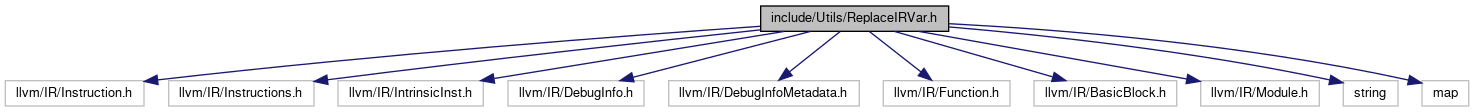
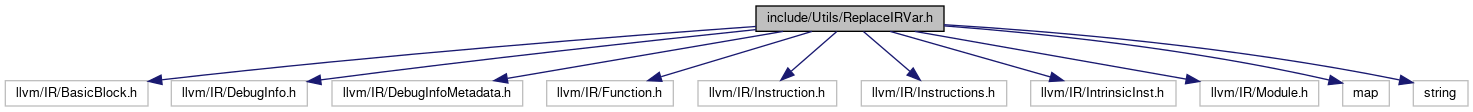
deploy: 809c17121af95b4b57fc65bd9bce2257514c7052

diff --git a/ReplaceIRVar_8h_source.html b/ReplaceIRVar_8h_source.html
@@ -73,37 +73,38 @@ $(function() {
 <a href="ReplaceIRVar_8h.html">Go to the documentation of this file.</a><div class="fragment"><div class="line"><a name="l00001"></a><span class="lineno">    1</span>&#160;<span class="preprocessor">#ifndef REPLACEIRVAR_H</span></div>
 <div class="line"><a name="l00002"></a><span class="lineno">    2</span>&#160;<span class="preprocessor">#define REPLACEIRVAR_H</span></div>
 <div class="line"><a name="l00003"></a><span class="lineno">    3</span>&#160; </div>
-<div class="line"><a name="l00004"></a><span class="lineno">    4</span>&#160;<span class="preprocessor">#include &quot;llvm/IR/Instruction.h&quot;</span></div>
-<div class="line"><a name="l00005"></a><span class="lineno">    5</span>&#160;<span class="preprocessor">#include &quot;llvm/IR/Instructions.h&quot;</span></div>
-<div class="line"><a name="l00006"></a><span class="lineno">    6</span>&#160;<span class="preprocessor">#include &quot;llvm/IR/IntrinsicInst.h&quot;</span></div>
-<div class="line"><a name="l00007"></a><span class="lineno">    7</span>&#160;<span class="preprocessor">#include &quot;llvm/IR/DebugInfo.h&quot;</span></div>
-<div class="line"><a name="l00008"></a><span class="lineno">    8</span>&#160;<span class="preprocessor">#include &quot;llvm/IR/DebugInfoMetadata.h&quot;</span></div>
-<div class="line"><a name="l00009"></a><span class="lineno">    9</span>&#160;<span class="preprocessor">#include &quot;llvm/IR/Function.h&quot;</span></div>
-<div class="line"><a name="l00010"></a><span class="lineno">   10</span>&#160;<span class="preprocessor">#include &quot;llvm/IR/BasicBlock.h&quot;</span></div>
+<div class="line"><a name="l00004"></a><span class="lineno">    4</span>&#160;<span class="preprocessor">#include &quot;llvm/IR/BasicBlock.h&quot;</span></div>
+<div class="line"><a name="l00005"></a><span class="lineno">    5</span>&#160;<span class="preprocessor">#include &quot;llvm/IR/DebugInfo.h&quot;</span></div>
+<div class="line"><a name="l00006"></a><span class="lineno">    6</span>&#160;<span class="preprocessor">#include &quot;llvm/IR/DebugInfoMetadata.h&quot;</span></div>
+<div class="line"><a name="l00007"></a><span class="lineno">    7</span>&#160;<span class="preprocessor">#include &quot;llvm/IR/Function.h&quot;</span></div>
+<div class="line"><a name="l00008"></a><span class="lineno">    8</span>&#160;<span class="preprocessor">#include &quot;llvm/IR/Instruction.h&quot;</span></div>
+<div class="line"><a name="l00009"></a><span class="lineno">    9</span>&#160;<span class="preprocessor">#include &quot;llvm/IR/Instructions.h&quot;</span></div>
+<div class="line"><a name="l00010"></a><span class="lineno">   10</span>&#160;<span class="preprocessor">#include &quot;llvm/IR/IntrinsicInst.h&quot;</span></div>
 <div class="line"><a name="l00011"></a><span class="lineno">   11</span>&#160;<span class="preprocessor">#include &quot;llvm/IR/Module.h&quot;</span></div>
-<div class="line"><a name="l00012"></a><span class="lineno">   12</span>&#160;<span class="preprocessor">#include &lt;string&gt;</span></div>
-<div class="line"><a name="l00013"></a><span class="lineno">   13</span>&#160;<span class="preprocessor">#include &lt;map&gt;</span></div>
+<div class="line"><a name="l00012"></a><span class="lineno">   12</span>&#160;<span class="preprocessor">#include &lt;map&gt;</span></div>
+<div class="line"><a name="l00013"></a><span class="lineno">   13</span>&#160;<span class="preprocessor">#include &lt;string&gt;</span></div>
 <div class="line"><a name="l00014"></a><span class="lineno">   14</span>&#160; </div>
-<div class="line"><a name="l00015"></a><span class="lineno"><a class="line" href="classReplaceIRVar.html">   15</a></span>&#160;<span class="keyword">class </span><a class="code" href="classReplaceIRVar.html">ReplaceIRVar</a>{</div>
+<div class="line"><a name="l00015"></a><span class="lineno"><a class="line" href="classReplaceIRVar.html">   15</a></span>&#160;<span class="keyword">class </span><a class="code" href="classReplaceIRVar.html">ReplaceIRVar</a> {</div>
 <div class="line"><a name="l00016"></a><span class="lineno">   16</span>&#160;<span class="keyword">private</span>:</div>
-<div class="line"><a name="l00018"></a><span class="lineno">   18</span>&#160;    std::string NewName;</div>
-<div class="line"><a name="l00020"></a><span class="lineno">   20</span>&#160;    std::map&lt;std::string,std::string&gt; HashMap;</div>
-<div class="line"><a name="l00021"></a><span class="lineno">   21</span>&#160;    <span class="keywordtype">void</span> init(llvm::Function&amp; F);</div>
-<div class="line"><a name="l00022"></a><span class="lineno">   22</span>&#160;    <span class="keywordtype">void</span> init(llvm::BasicBlock&amp; BB);</div>
-<div class="line"><a name="l00023"></a><span class="lineno">   23</span>&#160;    <span class="keywordtype">void</span> init(llvm::Module&amp; M);</div>
-<div class="line"><a name="l00024"></a><span class="lineno">   24</span>&#160;    <span class="keywordtype">void</span> format(std::string First,std::string Second);</div>
-<div class="line"><a name="l00025"></a><span class="lineno">   25</span>&#160;<span class="keyword">public</span>:</div>
-<div class="line"><a name="l00026"></a><span class="lineno">   26</span>&#160;    <a class="code" href="classReplaceIRVar.html#a9c68da708bbda4be6b5cb55ff05b54fe">ReplaceIRVar</a>();</div>
-<div class="line"><a name="l00027"></a><span class="lineno">   27</span>&#160;    <span class="keywordtype">void</span> <a class="code" href="classReplaceIRVar.html#a404cf892ebdcabe03bb016dc7367aa65">runOnFunction</a>(llvm::Function&amp; F);</div>
-<div class="line"><a name="l00028"></a><span class="lineno">   28</span>&#160;    <span class="keywordtype">void</span> <a class="code" href="classReplaceIRVar.html#a41d9ba6225a4efa62c8b123d08676573">runOnBasicBlock</a>(llvm::BasicBlock&amp; BB);</div>
-<div class="line"><a name="l00029"></a><span class="lineno">   29</span>&#160;    <span class="keywordtype">void</span> <a class="code" href="classReplaceIRVar.html#ac6dc1c852a768e2d25b39570a29cc46e">runOnModule</a>(llvm::Module&amp; M);</div>
-<div class="line"><a name="l00030"></a><span class="lineno">   30</span>&#160;};</div>
-<div class="line"><a name="l00031"></a><span class="lineno">   31</span>&#160;<span class="preprocessor">#endif</span></div>
+<div class="line"><a name="l00018"></a><span class="lineno">   18</span>&#160;  std::string NewName;</div>
+<div class="line"><a name="l00021"></a><span class="lineno">   21</span>&#160;  std::map&lt;std::string, std::string&gt; HashMap;</div>
+<div class="line"><a name="l00022"></a><span class="lineno">   22</span>&#160;  <span class="keywordtype">void</span> init(llvm::Function &amp;F);</div>
+<div class="line"><a name="l00023"></a><span class="lineno">   23</span>&#160;  <span class="keywordtype">void</span> init(llvm::BasicBlock &amp;BB);</div>
+<div class="line"><a name="l00024"></a><span class="lineno">   24</span>&#160;  <span class="keywordtype">void</span> init(llvm::Module &amp;M);</div>
+<div class="line"><a name="l00025"></a><span class="lineno">   25</span>&#160;  <span class="keywordtype">void</span> format(std::string First, std::string Second);</div>
+<div class="line"><a name="l00026"></a><span class="lineno">   26</span>&#160; </div>
+<div class="line"><a name="l00027"></a><span class="lineno">   27</span>&#160;<span class="keyword">public</span>:</div>
+<div class="line"><a name="l00028"></a><span class="lineno">   28</span>&#160;  <a class="code" href="classReplaceIRVar.html#a9c68da708bbda4be6b5cb55ff05b54fe">ReplaceIRVar</a>();</div>
+<div class="line"><a name="l00029"></a><span class="lineno">   29</span>&#160;  <span class="keywordtype">void</span> <a class="code" href="classReplaceIRVar.html#a404cf892ebdcabe03bb016dc7367aa65">runOnFunction</a>(llvm::Function &amp;F);</div>
+<div class="line"><a name="l00030"></a><span class="lineno">   30</span>&#160;  <span class="keywordtype">void</span> <a class="code" href="classReplaceIRVar.html#a41d9ba6225a4efa62c8b123d08676573">runOnBasicBlock</a>(llvm::BasicBlock &amp;BB);</div>
+<div class="line"><a name="l00031"></a><span class="lineno">   31</span>&#160;  <span class="keywordtype">void</span> <a class="code" href="classReplaceIRVar.html#ac6dc1c852a768e2d25b39570a29cc46e">runOnModule</a>(llvm::Module &amp;M);</div>
+<div class="line"><a name="l00032"></a><span class="lineno">   32</span>&#160;};</div>
+<div class="line"><a name="l00033"></a><span class="lineno">   33</span>&#160;<span class="preprocessor">#endif</span></div>
 <div class="ttc" id="aclassReplaceIRVar_html"><div class="ttname"><a href="classReplaceIRVar.html">ReplaceIRVar</a></div><div class="ttdef"><b>Definition:</b> ReplaceIRVar.h:15</div></div>
-<div class="ttc" id="aclassReplaceIRVar_html_a404cf892ebdcabe03bb016dc7367aa65"><div class="ttname"><a href="classReplaceIRVar.html#a404cf892ebdcabe03bb016dc7367aa65">ReplaceIRVar::runOnFunction</a></div><div class="ttdeci">void runOnFunction(llvm::Function &amp;F)</div><div class="ttdoc">replace IR variable to Actual Variable for the Function passed as parameter</div><div class="ttdef"><b>Definition:</b> ReplaceIRVar.cpp:43</div></div>
-<div class="ttc" id="aclassReplaceIRVar_html_a41d9ba6225a4efa62c8b123d08676573"><div class="ttname"><a href="classReplaceIRVar.html#a41d9ba6225a4efa62c8b123d08676573">ReplaceIRVar::runOnBasicBlock</a></div><div class="ttdeci">void runOnBasicBlock(llvm::BasicBlock &amp;BB)</div><div class="ttdoc">replace IR variable to Actual Variable for the Basic Block passed as parameter</div><div class="ttdef"><b>Definition:</b> ReplaceIRVar.cpp:51</div></div>
+<div class="ttc" id="aclassReplaceIRVar_html_a404cf892ebdcabe03bb016dc7367aa65"><div class="ttname"><a href="classReplaceIRVar.html#a404cf892ebdcabe03bb016dc7367aa65">ReplaceIRVar::runOnFunction</a></div><div class="ttdeci">void runOnFunction(llvm::Function &amp;F)</div><div class="ttdoc">replace IR variable to Actual Variable for the Function passed as parameter</div><div class="ttdef"><b>Definition:</b> ReplaceIRVar.cpp:45</div></div>
+<div class="ttc" id="aclassReplaceIRVar_html_a41d9ba6225a4efa62c8b123d08676573"><div class="ttname"><a href="classReplaceIRVar.html#a41d9ba6225a4efa62c8b123d08676573">ReplaceIRVar::runOnBasicBlock</a></div><div class="ttdeci">void runOnBasicBlock(llvm::BasicBlock &amp;BB)</div><div class="ttdef"><b>Definition:</b> ReplaceIRVar.cpp:54</div></div>
 <div class="ttc" id="aclassReplaceIRVar_html_a9c68da708bbda4be6b5cb55ff05b54fe"><div class="ttname"><a href="classReplaceIRVar.html#a9c68da708bbda4be6b5cb55ff05b54fe">ReplaceIRVar::ReplaceIRVar</a></div><div class="ttdeci">ReplaceIRVar()</div><div class="ttdoc">Constructor of ReplaceIRVar class.</div><div class="ttdef"><b>Definition:</b> ReplaceIRVar.cpp:4</div></div>
-<div class="ttc" id="aclassReplaceIRVar_html_ac6dc1c852a768e2d25b39570a29cc46e"><div class="ttname"><a href="classReplaceIRVar.html#ac6dc1c852a768e2d25b39570a29cc46e">ReplaceIRVar::runOnModule</a></div><div class="ttdeci">void runOnModule(llvm::Module &amp;M)</div><div class="ttdoc">replace IR variable to Actual Variable for the Module passed as parameter</div><div class="ttdef"><b>Definition:</b> ReplaceIRVar.cpp:71</div></div>
+<div class="ttc" id="aclassReplaceIRVar_html_ac6dc1c852a768e2d25b39570a29cc46e"><div class="ttname"><a href="classReplaceIRVar.html#ac6dc1c852a768e2d25b39570a29cc46e">ReplaceIRVar::runOnModule</a></div><div class="ttdeci">void runOnModule(llvm::Module &amp;M)</div><div class="ttdoc">replace IR variable to Actual Variable for the Module passed as parameter</div><div class="ttdef"><b>Definition:</b> ReplaceIRVar.cpp:78</div></div>
 </div><!-- fragment --></div><!-- contents -->
 <!-- start footer part -->
 <hr class="footer"/><address class="footer"><small>

diff --git a/ReplaceIRVar_8h.html b/ReplaceIRVar_8h.html
@@ -72,32 +72,32 @@ $(function() {
 <div class="title">ReplaceIRVar.h File Reference</div>  </div>
 </div><!--header-->
 <div class="contents">
-<div class="textblock"><code>#include &quot;llvm/IR/Instruction.h&quot;</code><br />
-<code>#include &quot;llvm/IR/Instructions.h&quot;</code><br />
-<code>#include &quot;llvm/IR/IntrinsicInst.h&quot;</code><br />
+<div class="textblock"><code>#include &quot;llvm/IR/BasicBlock.h&quot;</code><br />
 <code>#include &quot;llvm/IR/DebugInfo.h&quot;</code><br />
 <code>#include &quot;llvm/IR/DebugInfoMetadata.h&quot;</code><br />
 <code>#include &quot;llvm/IR/Function.h&quot;</code><br />
-<code>#include &quot;llvm/IR/BasicBlock.h&quot;</code><br />
+<code>#include &quot;llvm/IR/Instruction.h&quot;</code><br />
+<code>#include &quot;llvm/IR/Instructions.h&quot;</code><br />
+<code>#include &quot;llvm/IR/IntrinsicInst.h&quot;</code><br />
 <code>#include &quot;llvm/IR/Module.h&quot;</code><br />
-<code>#include &lt;string&gt;</code><br />
 <code>#include &lt;map&gt;</code><br />
+<code>#include &lt;string&gt;</code><br />
 </div><div class="textblock"><div class="dynheader">
 Include dependency graph for ReplaceIRVar.h:</div>
 <div class="dyncontent">
 <div class="center"><img src="ReplaceIRVar_8h__incl.png" border="0" usemap="#ainclude_2Utils_2ReplaceIRVar_8h" alt=""/></div>
 <map name="ainclude_2Utils_2ReplaceIRVar_8h" id="ainclude_2Utils_2ReplaceIRVar_8h">
-<area shape="rect" title=" " alt="" coords="761,5,949,32"/>
-<area shape="rect" title=" " alt="" coords="5,80,144,107"/>
-<area shape="rect" title=" " alt="" coords="169,80,314,107"/>
-<area shape="rect" title=" " alt="" coords="338,80,483,107"/>
-<area shape="rect" title=" " alt="" coords="508,80,644,107"/>
-<area shape="rect" title=" " alt="" coords="669,80,859,107"/>
-<area shape="rect" title=" " alt="" coords="883,80,1010,107"/>
-<area shape="rect" title=" " alt="" coords="1034,80,1177,107"/>
-<area shape="rect" title=" " alt="" coords="1201,80,1319,107"/>
-<area shape="rect" title=" " alt="" coords="1343,80,1398,107"/>
-<area shape="rect" title=" " alt="" coords="1422,80,1469,107"/>
+<area shape="rect" title=" " alt="" coords="756,5,944,32"/>
+<area shape="rect" title=" " alt="" coords="5,80,148,107"/>
+<area shape="rect" title=" " alt="" coords="171,80,307,107"/>
+<area shape="rect" title=" " alt="" coords="332,80,523,107"/>
+<area shape="rect" title=" " alt="" coords="547,80,673,107"/>
+<area shape="rect" title=" " alt="" coords="698,80,837,107"/>
+<area shape="rect" title=" " alt="" coords="861,80,1007,107"/>
+<area shape="rect" title=" " alt="" coords="1031,80,1176,107"/>
+<area shape="rect" title=" " alt="" coords="1200,80,1319,107"/>
+<area shape="rect" title=" " alt="" coords="1343,80,1389,107"/>
+<area shape="rect" title=" " alt="" coords="1413,80,1468,107"/>
 </map>
 </div>
 </div><div class="textblock"><div class="dynheader">

diff --git a/CFGUtils_8cpp.html b/CFGUtils_8cpp.html
@@ -87,21 +87,21 @@ Include dependency graph for CFGUtils.cpp:</div>
 <div class="dyncontent">
 <div class="center"><img src="CFGUtils_8cpp__incl.png" border="0" usemap="#alib_2Utils_2CFGUtils_8cpp" alt=""/></div>
 <map name="alib_2Utils_2CFGUtils_8cpp" id="alib_2Utils_2CFGUtils_8cpp">
-<area shape="rect" title=" " alt="" coords="402,5,550,32"/>
+<area shape="rect" title=" " alt="" coords="401,5,549,32"/>
 <area shape="rect" href="CFGUtils_8h.html" title=" " alt="" coords="220,80,337,107"/>
 <area shape="rect" title=" " alt="" coords="5,155,64,181"/>
 <area shape="rect" title=" " alt="" coords="89,155,215,181"/>
 <area shape="rect" title=" " alt="" coords="240,155,379,181"/>
-<area shape="rect" href="ReplaceIRVar_8h.html" title=" " alt="" coords="614,80,757,107"/>
-<area shape="rect" title=" " alt="" coords="403,155,549,181"/>
-<area shape="rect" title=" " alt="" coords="1331,155,1474,181"/>
+<area shape="rect" href="ReplaceIRVar_8h.html" title=" " alt="" coords="611,80,754,107"/>
+<area shape="rect" title=" " alt="" coords="403,155,546,181"/>
+<area shape="rect" title=" " alt="" coords="1329,155,1474,181"/>
 <area shape="rect" title=" " alt="" coords="1498,155,1553,181"/>
-<area shape="rect" title=" " alt="" coords="883,80,987,107"/>
-<area shape="rect" title=" " alt="" coords="786,155,931,181"/>
-<area shape="rect" title=" " alt="" coords="956,155,1092,181"/>
-<area shape="rect" title=" " alt="" coords="1117,155,1307,181"/>
-<area shape="rect" title=" " alt="" coords="573,155,691,181"/>
-<area shape="rect" title=" " alt="" coords="715,155,762,181"/>
+<area shape="rect" title=" " alt="" coords="880,80,984,107"/>
+<area shape="rect" title=" " alt="" coords="784,155,920,181"/>
+<area shape="rect" title=" " alt="" coords="945,155,1135,181"/>
+<area shape="rect" title=" " alt="" coords="1159,155,1305,181"/>
+<area shape="rect" title=" " alt="" coords="570,155,689,181"/>
+<area shape="rect" title=" " alt="" coords="713,155,759,181"/>
 </map>
 </div>
 </div><table class="memberdecls">

diff --git a/ReplaceIRVar_8cpp.html b/ReplaceIRVar_8cpp.html
@@ -76,18 +76,18 @@ Include dependency graph for ReplaceIRVar.cpp:</div>
 <div class="dyncontent">
 <div class="center"><img src="ReplaceIRVar_8cpp__incl.png" border="0" usemap="#alib_2Utils_2ReplaceIRVar_8cpp" alt=""/></div>
 <map name="alib_2Utils_2ReplaceIRVar_8cpp" id="alib_2Utils_2ReplaceIRVar_8cpp">
-<area shape="rect" title=" " alt="" coords="767,5,942,32"/>
-<area shape="rect" href="ReplaceIRVar_8h.html" title=" " alt="" coords="783,80,926,107"/>
-<area shape="rect" title=" " alt="" coords="5,155,144,181"/>
-<area shape="rect" title=" " alt="" coords="169,155,314,181"/>
-<area shape="rect" title=" " alt="" coords="338,155,483,181"/>
-<area shape="rect" title=" " alt="" coords="508,155,644,181"/>
-<area shape="rect" title=" " alt="" coords="669,155,859,181"/>
-<area shape="rect" title=" " alt="" coords="883,155,1010,181"/>
-<area shape="rect" title=" " alt="" coords="1034,155,1177,181"/>
-<area shape="rect" title=" " alt="" coords="1201,155,1319,181"/>
-<area shape="rect" title=" " alt="" coords="1343,155,1398,181"/>
-<area shape="rect" title=" " alt="" coords="1422,155,1469,181"/>
+<area shape="rect" title=" " alt="" coords="763,5,937,32"/>
+<area shape="rect" href="ReplaceIRVar_8h.html" title=" " alt="" coords="779,80,921,107"/>
+<area shape="rect" title=" " alt="" coords="5,155,148,181"/>
+<area shape="rect" title=" " alt="" coords="171,155,307,181"/>
+<area shape="rect" title=" " alt="" coords="332,155,523,181"/>
+<area shape="rect" title=" " alt="" coords="547,155,673,181"/>
+<area shape="rect" title=" " alt="" coords="698,155,837,181"/>
+<area shape="rect" title=" " alt="" coords="861,155,1007,181"/>
+<area shape="rect" title=" " alt="" coords="1031,155,1176,181"/>
+<area shape="rect" title=" " alt="" coords="1200,155,1319,181"/>
+<area shape="rect" title=" " alt="" coords="1343,155,1389,181"/>
+<area shape="rect" title=" " alt="" coords="1413,155,1468,181"/>
 </map>
 </div>
 </div></div><!-- contents -->

diff --git a/classReplaceIRVar.html b/classReplaceIRVar.html
@@ -81,7 +81,6 @@ Public Member Functions</h2></td></tr>
 <tr class="memdesc:a404cf892ebdcabe03bb016dc7367aa65"><td class="mdescLeft">&#160;</td><td class="mdescRight">replace IR variable to Actual Variable for the Function passed as parameter  <a href="classReplaceIRVar.html#a404cf892ebdcabe03bb016dc7367aa65">More...</a><br /></td></tr>
 <tr class="separator:a404cf892ebdcabe03bb016dc7367aa65"><td class="memSeparator" colspan="2">&#160;</td></tr>
 <tr class="memitem:a41d9ba6225a4efa62c8b123d08676573"><td class="memItemLeft" align="right" valign="top">void&#160;</td><td class="memItemRight" valign="bottom"><a class="el" href="classReplaceIRVar.html#a41d9ba6225a4efa62c8b123d08676573">runOnBasicBlock</a> (llvm::BasicBlock &amp;BB)</td></tr>
-<tr class="memdesc:a41d9ba6225a4efa62c8b123d08676573"><td class="mdescLeft">&#160;</td><td class="mdescRight">replace IR variable to Actual Variable for the Basic Block passed as parameter  <a href="classReplaceIRVar.html#a41d9ba6225a4efa62c8b123d08676573">More...</a><br /></td></tr>
 <tr class="separator:a41d9ba6225a4efa62c8b123d08676573"><td class="memSeparator" colspan="2">&#160;</td></tr>
 <tr class="memitem:ac6dc1c852a768e2d25b39570a29cc46e"><td class="memItemLeft" align="right" valign="top">void&#160;</td><td class="memItemRight" valign="bottom"><a class="el" href="classReplaceIRVar.html#ac6dc1c852a768e2d25b39570a29cc46e">runOnModule</a> (llvm::Module &amp;M)</td></tr>
 <tr class="memdesc:ac6dc1c852a768e2d25b39570a29cc46e"><td class="mdescLeft">&#160;</td><td class="mdescRight">replace IR variable to Actual Variable for the Module passed as parameter  <a href="classReplaceIRVar.html#ac6dc1c852a768e2d25b39570a29cc46e">More...</a><br /></td></tr>
@@ -123,7 +122,6 @@ Public Member Functions</h2></td></tr>
         </tr>
       </table>
 </div><div class="memdoc">
-
 <p>replace IR variable to Actual Variable for the Basic Block passed as parameter </p>
 
 </div>
